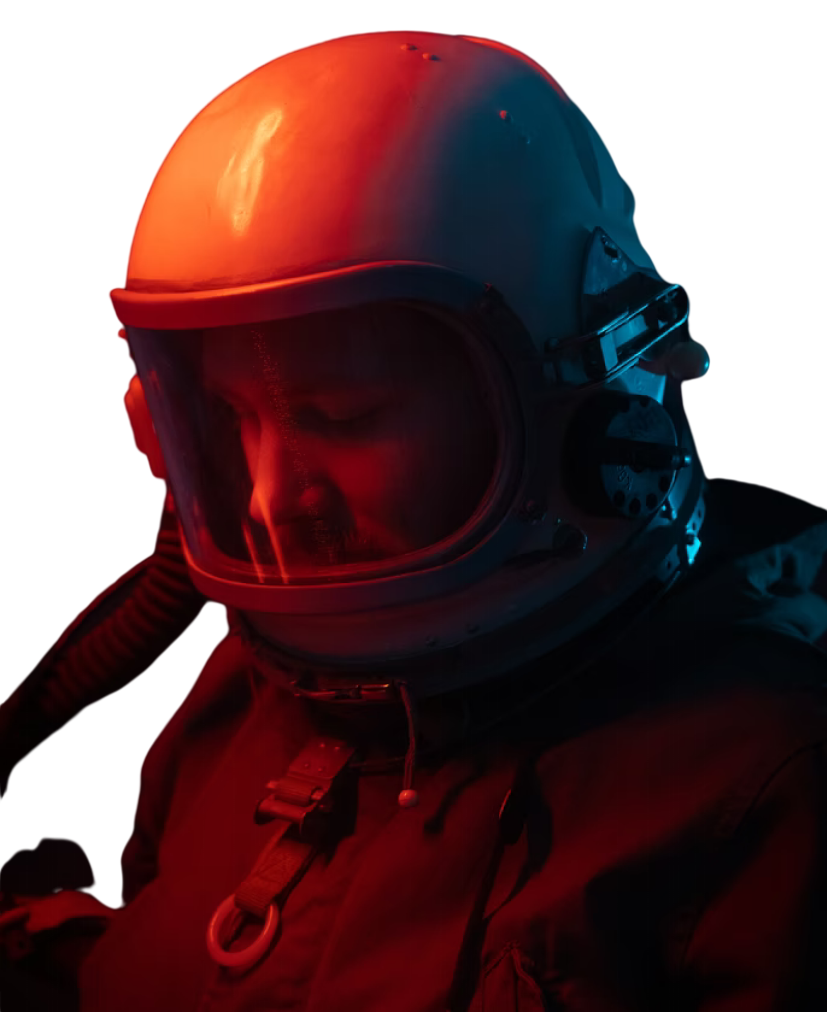
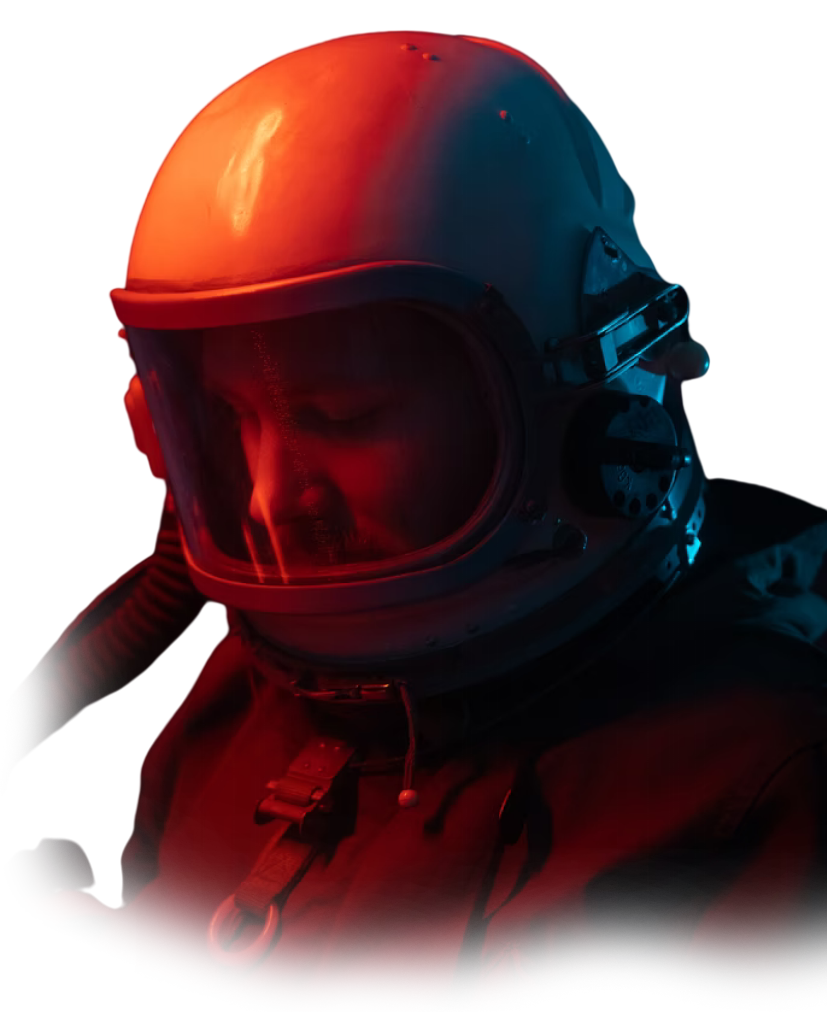
feat(aboutsection) about section added

Changed region(s): [[0.0, 0.7964, 1.0, 1.0], [0.0, 0.582, 0.1511, 0.7964]]

diff --git a/src/pages/About/aboutSection.style.ts b/src/pages/About/aboutSection.style.ts
@@ -1,0 +1,85 @@
+import styled from 'styled-components'
+import img from '../../../public/img/aboutimage.png'
+
+
+export const Section = styled.section`
+  margin-top: 10.0rem;
+  display: flex;
+  align-items: center;
+  justify-content: center;
+  justify-self: center;
+ 
+  
+  
+  .aboutText {
+          display: flex;
+          flex-direction: column;
+          align-items: center;
+          max-width: 100%;
+          height: auto;
+          font-style: normal;
+          font-weight: normal;
+          line-height: 4.2rem;
+          border-radius: 16px;
+          padding: 26.0rem 9.0rem ;
+          background-image: url(${img});
+          background-repeat: no-repeat;
+
+          @media screen and (max-width: 470px) {
+                      padding: 4.0rem 4.0rem;
+                      
+                      
+            }
+
+          
+          
+          
+         
+        
+
+          h2 {
+            font-size: 6.4rem;
+            font-weight: bold;
+
+            @media screen and (max-width: 820px) {
+                font-size: 3.8rem;
+                text-overflow: hidden;
+                
+      }
+          }
+
+          h3 {
+            margin: 2.4rem 0;
+            @media screen and (max-width: 820px) {
+                font-size: 1.6rem;
+                text-overflow: hidden;
+                
+      }
+          }
+
+          p {
+            font-size: 2.4rem;
+            line-height: 2.8rem;
+            font-weight: 200;
+            text-overflow: hidden;
+            overflow: hidden;
+
+            @media screen and (max-width: 820px) {
+                font-size: 1.6rem;
+                text-overflow: hidden;
+                line-height: 1.8rem;
+                
+      }
+              @media screen and (max-width: 470px) {
+                      font-size: 0.9rem;
+                      text-overflow: hidden;
+                      
+                      
+            }
+
+
+            
+        }
+        
+      }
+`

diff --git a/src/App.tsx b/src/App.tsx
@@ -1,5 +1,6 @@
 import styled from "styled-components"
 import { Header } from "./components/Header"
+import { AboutSection } from "./pages/About"
 import { HeroSection } from "./pages/HeroSection"
 
 
@@ -9,12 +10,7 @@ function App() {
       <Header />
       <HeroSection />
       <GridCenter >
-        <h1>Hello world</h1>
-        <h1>Hello world</h1>
-        <h1>Hello world</h1>
-        <h1>Hello world</h1>
-        <h1>Hello world</h1>
-        <h1>Hello world</h1>
+       <AboutSection />
       </GridCenter>
     </Wrapper>
     
@@ -29,9 +25,9 @@ const Wrapper = styled.div`
     grid-template-rows: 1fr; 
     gap: 0px 0px; 
     background: linear-gradient(271deg, #2d0014, #560127);
-    background-size: 400% 400%;
+    background-size: 400% 400%;  
+    align-items: center; 
     
-    padding-top: 64px;
 
     background: linear-gradient(300deg,#590209,#000000,#000000,#5a0007);
     background-size: 240% 240%;
@@ -52,8 +48,9 @@ const Wrapper = styled.div`
       
 `
 export const GridCenter = styled.div`
-grid-column: 2;
-margin-top: 4.0rem;
+
+    grid-column: 2;
+    
 `
 
 

diff --git a/src/pages/HeroSection/heroSection.style.ts b/src/pages/HeroSection/heroSection.style.ts
@@ -8,42 +8,25 @@ export const Section = styled.section`
     grid-template-columns: 1.5fr 1fr; 
     grid-template-rows: 1fr; 
     gap: 0px 0px;
-    
-
-    
-        
 
     img {
         
     }
 
     @media screen and (max-width: 960px) {
-
-      height: 100vh;
       img {
         display:none;
       }
-      
-      @media screen and (max-width: 847px) {
-        height: 100%;
-        }
 
-        @media screen and (max-width: 600px) {
-        height: 100vh;
-        }
-
-        @media screen and (max-width: 500px) {
-        height: 100%;
-        }
-        
 }
 
 `
 
 export const HeroText = styled.div`
-      margin-top: 9.0rem;
+      margin-top: 15.0rem;
       max-width: 60%;
       margin-left: 10.0rem;
+      
       
       
 
@@ -79,6 +62,9 @@ export const HeroText = styled.div`
       width: 31.9rem;
       background-color: #590209;
       margin: 2.4rem 5.0rem 2.4rem 0;
+      padding-left: 2.0rem;
+      font-style: normal;
+      font-weight: 300;
     }
 
     @media screen and (max-width: 960px) {

diff --git a/src/pages/About/index.tsx b/src/pages/About/index.tsx
@@ -1,0 +1,14 @@
+import { AboutImage } from '../../components/AboutImage'
+import { Section } from './aboutSection.style'
+
+export const AboutSection = () => {
+  return(
+    <Section>         
+           <div className="aboutText">
+                <h2>About Us</h2>
+                <h3>Our mission is change the way you explore the space</h3>
+                <p>Lorem ipsum dolor sit amet, consectetur adipiscing elit, sed do eiusmod tempor incididunt ut labore et dolore magna aliqua. Justo eget magna fermentum iaculis eu non diam phasellus. Sagittis orci a scelerisque purus semper eget. Auctor neque vitae tempus quam pellentesque nec nam aliquam. Non curabitur gravida arcu ac tortor. </p>           
+           </div>        
+    </Section>
+  )
+}

diff --git a/src/pages/HeroSection/index.tsx b/src/pages/HeroSection/index.tsx
@@ -10,7 +10,7 @@ export const HeroSection = () => {
         <h2>Rocketeer helmets is a visionary enterprise that is trying to improve your health by building modern and comfortable helmets for you. </h2>
         <form>
           <label>Enter your email to get the latest news</label>
-          <input type="email" />
+          <input type="email" placeholder="Enter your email here"/>
           <Button title='Submit'/>
         </form>
       </S.HeroText>   

diff --git a/src/styles/global.style.ts b/src/styles/global.style.ts
@@ -25,6 +25,7 @@ export const GlobalStyle = createGlobalStyle`
             font-family: Raleway, -apple-system, BlinkMacSystemFont, 'Segoe UI', Roboto, Oxygen, Ubuntu, Cantarell, 'Open Sans', 'Helvetica Neue', sans-serif;
             font-size: 16px;
             color: #fff;
+            
         }
       
         

diff --git a/src/components/AboutImage/index.tsx b/src/components/AboutImage/index.tsx
@@ -1,0 +1,8 @@
+import aboutimage from '../../../public/img/aboutimage.png'
+
+
+export const AboutImage = (props: any) => {
+  return(
+    <img src={aboutimage} />
+  )
+}

diff --git a/src/components/HeroImg/index.tsx b/src/components/HeroImg/index.tsx
@@ -1,4 +1,4 @@
-import heroimg from '../../../public/img/heroimg.png'
+import heroimg from '/img/heroimg.png'
 
 export const HeroImg = () => {
   return(
